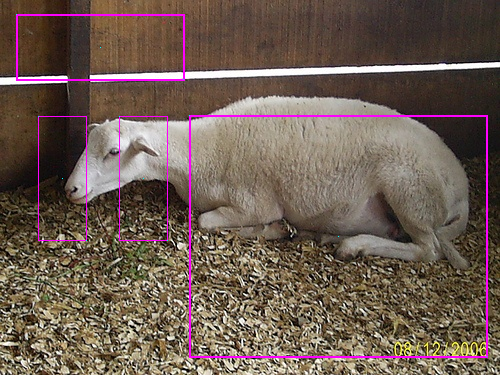
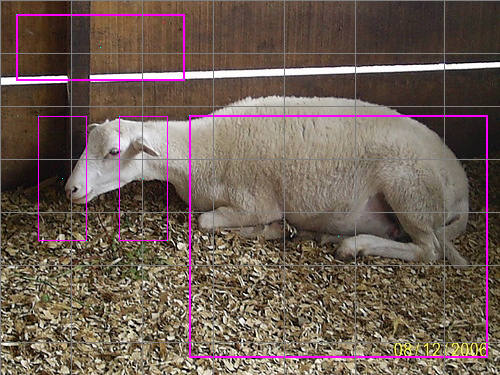
Add: Grid Cells to image

diff --git a/src/utils.py b/src/utils.py
@@ -2,7 +2,8 @@ import toml
 import PIL.Image as Image
 import math
 import numpy as np
-from gridcell import GridCell
+from src.gridcell import GridCell
+import cv2
 
 
 def open_toml(path):
@@ -110,7 +111,7 @@ def generate_grid_cells(image_size, grid_size):
     return grid_cells
 
 
-def draw_grid_on_image(image_buf, grid_cells):
+def draw_grid_on_image(image_buf, grid_cells: np.ndarray):
     """Draws grid cells on an image buffer.
 
     Args:
@@ -120,9 +121,16 @@ def draw_grid_on_image(image_buf, grid_cells):
     Returns:
         numpy.ndarray: Modified image buffer as a NumPy array.
     """
-
     for i in range(grid_cells.shape[0]):
         for j in range(grid_cells.shape[1]):
+            cell = grid_cells[i][j]
+            print(cell)
+            print(i * cell.width, j * cell.height)
+            image_buf[:, i * cell.width] = [127, 127, 127]
+            image_buf[j * cell.height, :] = [127, 127, 127]
+            image_buf[:, i * cell.width] = [127, 127, 127]
+            image_buf[j * cell.height, :] = [127, 127, 127]
+
             image_buf = draw_bbox_on_image(image_buf, grid_cells[i][j].get_bbox_list())
 
     return image_buf
